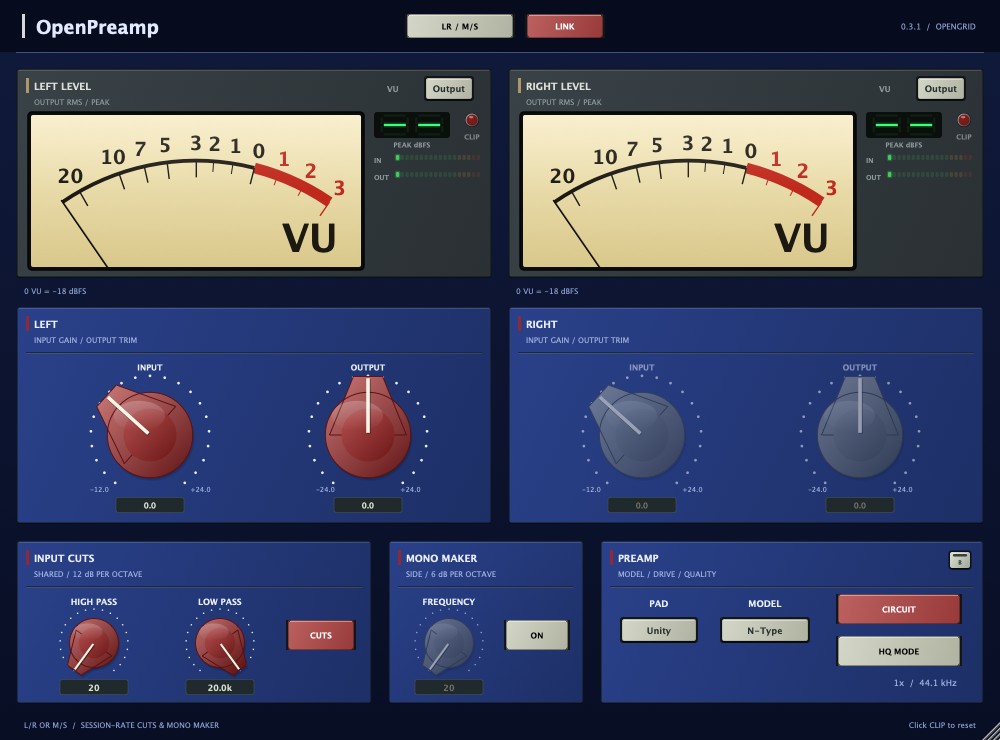
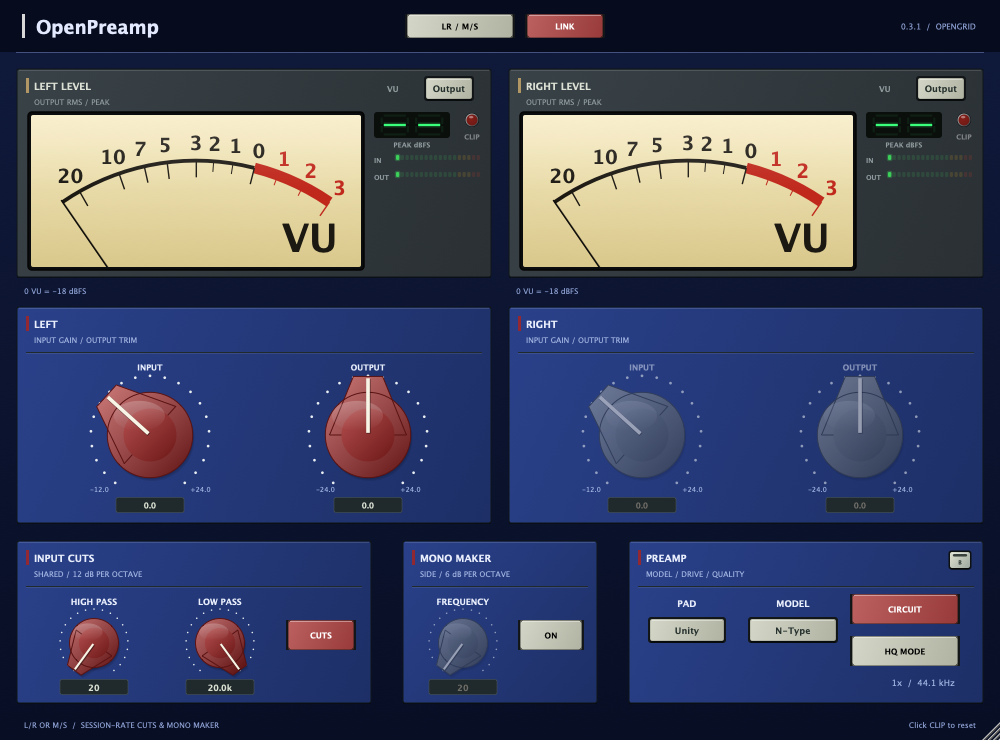
Narrow Preamp panel to match Input Cuts width

Changed region(s): [[0.372, 0.7149, 0.961, 0.9635]]

diff --git a/Source/OpenPreampPlugin/PluginEditor.cpp b/Source/OpenPreampPlugin/PluginEditor.cpp
@@ -140,14 +140,14 @@ void OpenPreampEditor::resized()
         preampGainDial.setBounds(60,54,148,154);outputGainDial.setBounds(286,54,132,154);
         rightGainDial.setBounds(preampGainDial.getBounds());rightOutputDial.setBounds(outputGainDial.getBounds());
     }
-    cutsPanel.setBounds(16,540,356,164);monoMakerPanel.setBounds(388,540,196,164);controlsPanel.setBounds(600,540,384,164);
+    cutsPanel.setBounds(16,540,356,164);monoMakerPanel.setBounds(402,540,196,164);controlsPanel.setBounds(628,540,356,164);
     highPassDial.setBounds(24,54,108,102);lowPassDial.setBounds(150,54,108,102);
     cutsToggle.setBounds(270,80,70,30);
     monoMakerDial.setBounds(12,54,98,102);monoMakerToggle.setBounds(116,80,66,30);
     preampPadBtn.setBounds(18,56,82,60);preampTypeBtn.setBounds(118,56,94,60);
-    preampCircuitToggle.setBounds(236,54,126,30);hqToggle.setBounds(236,96,126,30);
+    preampCircuitToggle.setBounds(222,54,110,30);hqToggle.setBounds(222,96,110,30);
     midSideToggle.setBounds(405,14,110,24);linkToggle.setBounds(525,14,80,24);
-    rateLabel.setBounds(184,132,178,20);
+    rateLabel.setBounds(154,132,178,20);
 #if GOODLOOKINUI_ENABLE_EDITOR
     developerButton.setBounds(316,14,60,24);
 #endif

diff --git a/OPENPREAMP_HANDOFF.md b/OPENPREAMP_HANDOFF.md
@@ -22,7 +22,8 @@ session rate, before the preamp upsampling. Preamp bypass skips it; model Off
 still permits filtering. Input meters remain before this filter.
 
 The header holds LR / M/S and Link; the bottom row holds cuts, mono maker,
-and preamp settings. Saved colours, gain-knob geometry and resize limits are
+and preamp settings. Input Cuts and Preamp both measure 356 × 164; Preamp
+was narrowed to match Input Cuts, with the mono maker centered between them. Saved colours, gain-knob geometry and resize limits are
 retained. Release VST3 built with developer mode OFF and passed strict signature
 verification. All 215 smoke/routing checks passed: linked gains, restoration
 on unlink, Link hidden in M/S, disabled right controls, Side-only 6 dB/octave
